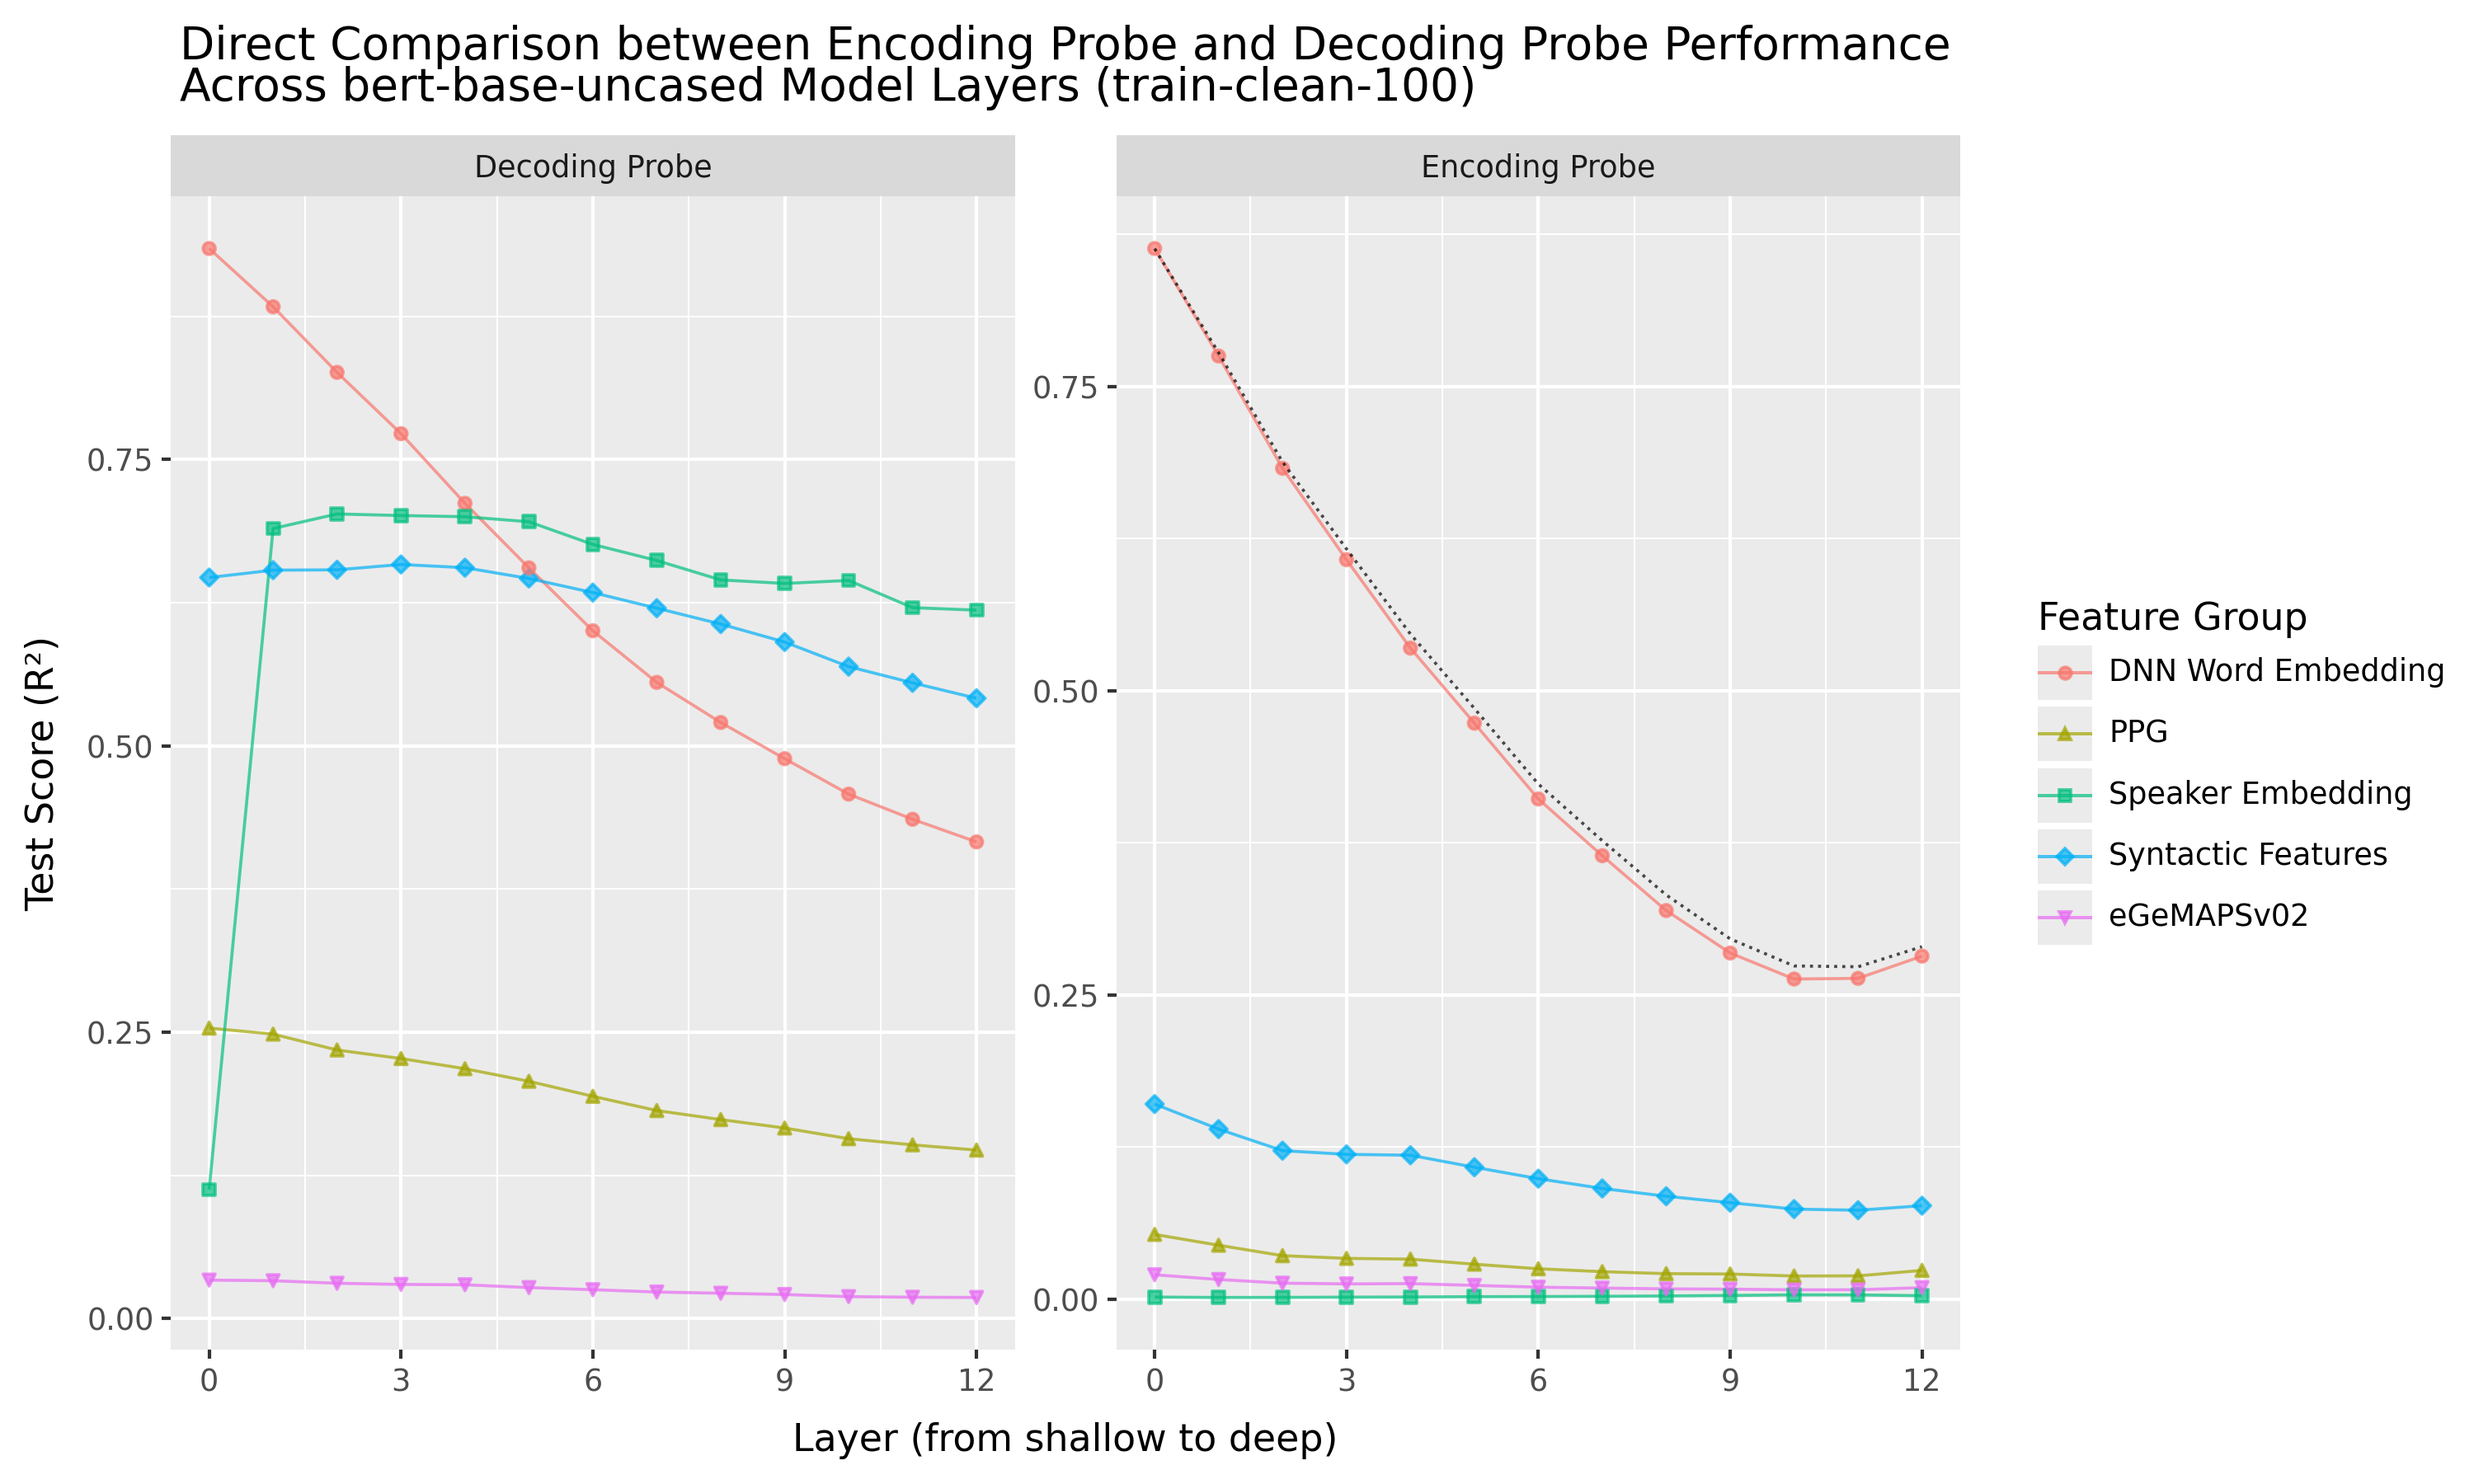
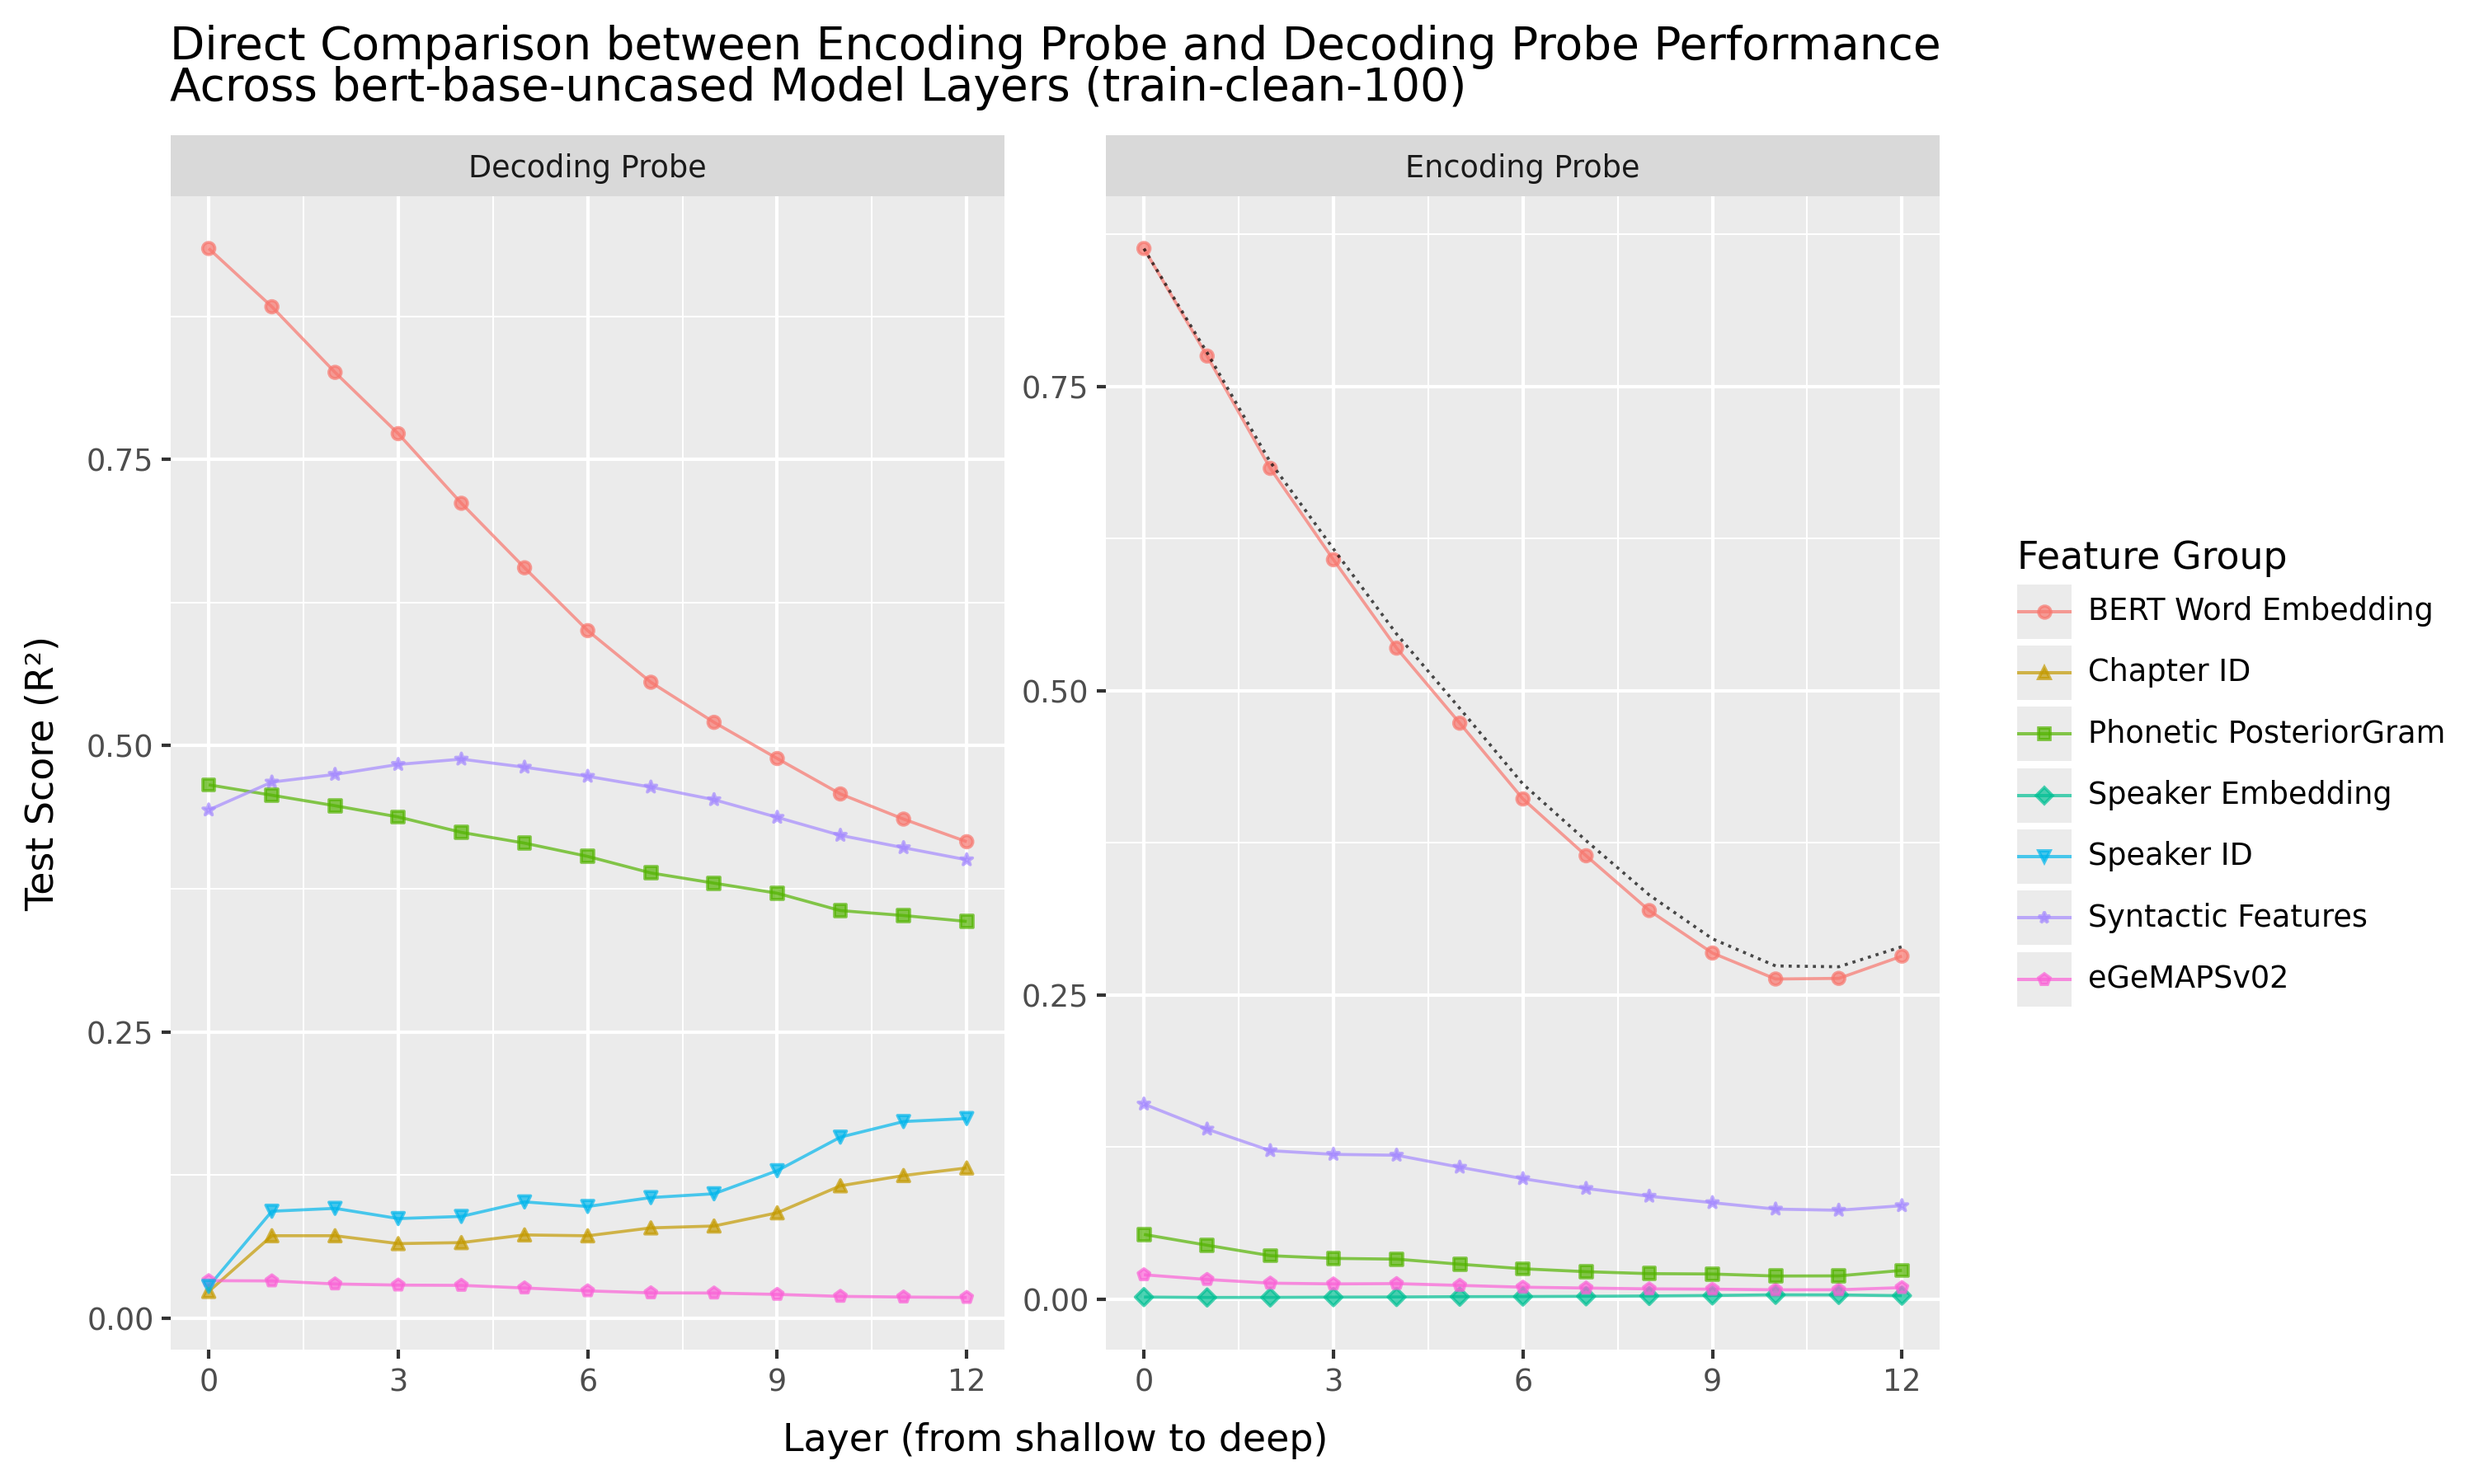
new plotting and target experiment code

diff --git a/src/target_experiment_syntax_lexical.py b/src/target_experiment_syntax_lexical.py
@@ -1,0 +1,227 @@
+# This script runs target experiments using the encoding probe paradigm
+# to investigate how well different feature groups (syntax, lexical) interact in the
+# hidden representations of a DNN model pre-trained with audio data.
+
+import argparse
+import json
+import logging
+import os
+import pickle
+import sys
+
+import numpy as np
+from sklearn.model_selection import GridSearchCV, train_test_split
+from tqdm.auto import tqdm, trange
+
+from frame_probe import parse_args, pick_probe, r2_score
+from load_probe_data import get_section_shapes, load_data
+
+# Set up logger with time, name, level, and message
+logging.basicConfig(
+    level=logging.INFO,
+    format="[%(asctime)s] - %(name)s - %(levelname)s - %(message)s",
+    datefmt="%Y-%m-%d %H:%M:%S",
+    # We want the logging info to be saved to stdout not stderr
+    handlers=[logging.StreamHandler(sys.stdout)],
+)
+
+logger = logging.getLogger(__name__)
+
+
+# Get the hostname of the machine running the code
+hostname = os.uname().nodename
+PROJECT_ROOT = os.path.dirname(os.path.dirname(os.path.realpath(__file__)))
+
+
+# Setting up environmental variables depending on the cluster this code is running on
+
+if "snellius" in hostname:
+    # If running on Snellius, use the Snellius dataset root
+    DATASET_ROOT = os.path.realpath("/projects/prjs1586/corpora/LibriSpeech")
+    ALIGNMENT_ROOT = DATASET_ROOT.replace("LibriSpeech", "librispeech_textgrids")
+    SAVEPATH = "/projects/prjs1586/experimental_data"
+    RESULTS_ROOT = "/projects/prjs1586/experimental_results"
+
+else:
+    # If running on local machine, use the local dataset root
+    DATASET_ROOT = os.path.realpath("/corpora/LibriSpeech/LibriSpeech")
+    # ALIGNMENT_ROOT = os.path.expanduser(f"~/corpora/librispeech_alignment/")
+    ALIGNMENT_ROOT = os.path.join(PROJECT_ROOT, "data")
+    SAVEPATH = os.path.join(PROJECT_ROOT, "experimental_data")
+    RESULTS_ROOT = os.path.join(PROJECT_ROOT, "results")
+
+
+def main():
+    args = parse_args()
+    librispeech_split = args.librispeech_split
+    modelname = args.modelname.split("/")[-1]
+    select_layers = args.select_layers
+    normalize_features = args.normalize_features
+    overwrite = args.overwrite
+    probe_name = args.probe_name
+    syntax_deep_dive_flag = args.syntax_deep_dive
+
+    # 1. We load the data for the experiment
+    logger.info("Loading data for target experiment...")
+    feature_sets, model_hidden_states, filename_timestamp, data_shape = load_data(
+        librispeech_split=librispeech_split,
+        modelname=modelname,
+        seq_sampling="random_frames",
+        select_layers=select_layers,
+        overwrite=overwrite,
+        reduce_dnn_word_embedding=True,
+        one_hot_encode_syntax=True,
+        one_hot_encode_metadata=True,
+        argmax_ppg=True,
+        normalize_features=normalize_features,
+    )
+
+    section_shapes = get_section_shapes(data_shape)
+    all_feature_names = section_shapes[:, -1].tolist()
+
+    # 2. We pick the probe for the experiment
+    logger.info("Picking probe for target experiment...")
+    estimator, param_grid = pick_probe(probe_name=probe_name)
+
+    # 3. We further format the feature sets for the experiment
+    logger.info("Formatting feature sets for target experiment...")
+    # We run the encoding probe with all features combined and save results with name "all_features"
+    # Then we remove syntax features and save results with name "no_syntax"
+    # Thirdly, we remove lexical features and save results with name "no_lexical"
+    # Lastly we remove both syntax and lexical features and save results with name "no_syntax_lexical"
+
+    feature_set_removal_configurations = {
+        "all_features": [],
+        "no_syntax": ["syntax_feature"],
+        "no_lexical": ["dnn_word_embedding"],
+        "no_syntax_lexical": ["syntax_feature", "dnn_word_embedding"],
+    }
+
+    results = []
+
+    for (
+        config_name,
+        feature_names_to_remove,
+    ) in feature_set_removal_configurations.items():
+        logger.info(
+            f"Running target experiment with feature set configuration: {config_name}..."
+        )
+        mask_array = np.ones(feature_sets.shape[1], dtype=bool)
+        for feature_name in feature_names_to_remove:
+            feature_idx = all_feature_names.index(feature_name)
+            start_idx, end_idx = (
+                int(section_shapes[feature_idx][0]),
+                int(section_shapes[feature_idx][1]),
+            )
+            mask_array[start_idx:end_idx] = False
+
+        # Use mask_array to select features
+        selected_feature_set = feature_sets.copy()[:, mask_array]
+
+        for layer in trange(model_hidden_states.shape[1], desc="Layers"):
+            logger.info(f"Running target experiment for layer {layer}...")
+            (
+                X_train,
+                X_test,
+                y_train,
+                y_test,
+            ) = train_test_split(
+                selected_feature_set,
+                model_hidden_states[:, layer, :],
+                test_size=0.2,
+                random_state=42,
+            )
+
+            GS = GridSearchCV(
+                estimator,
+                param_grid,
+                cv=5,
+                n_jobs=-1,
+                verbose=0,
+            )
+            GS.fit(X_train, y_train)
+            train_score = r2_score(
+                y_train,
+                GS.predict(X_train),
+                multioutput="variance_weighted",
+                train_data=y_train,
+            )
+            test_score = r2_score(
+                y_test,
+                GS.predict(X_test),
+                multioutput="variance_weighted",
+                train_data=y_train,
+            )
+
+            result = {
+                "librispeech_split": librispeech_split,
+                "modelname": modelname,
+                "layer": layer,
+                "config_name": config_name,
+                "train_score": train_score,
+                "test_score": test_score,
+                "best_params": GS.best_params_,
+            }
+            results.append(result)
+
+    # 4. Plot and save the results
+    plotting_results(results, modelname, librispeech_split)
+
+
+def plotting_results(results, modelname, librispeech_split):
+    # Plot the results
+    import pandas as pd
+    import plotnine as p9
+
+    results_df = pd.DataFrame(results)
+
+    # Rename config_name for better plotting labels
+    rename_config_name = {
+        "all_features": "All Features",
+        "no_syntax": "No Syntax Features",
+        "no_lexical": "No Lexical Features",
+        "no_syntax_lexical": "No Syntax & Lexical Features",
+    }
+    results_df["config_name"] = results_df["config_name"].replace(rename_config_name)
+
+    plot = (
+        p9.ggplot(
+            results_df,
+            p9.aes(
+                x="layer",
+                y="test_score",
+                color="config_name",
+            ),
+        )
+        + p9.geom_line()
+        + p9.geom_point()
+        + p9.labs(
+            title=f"Target Experiment Syntax and Lexical Features Interaction\nModel: {modelname}, Split: {librispeech_split}",
+            x="Layer",
+            y="Test R² Score",
+            color="Feature Set Configuration",
+        )
+    )
+    plot.show()
+
+    logger.info("Saving results for target experiment...")
+    results_savepath = os.path.join(
+        RESULTS_ROOT,
+        "target_experiment_syntax_lexical",
+        f"{librispeech_split}_{modelname}_results.pkl",
+    )
+    os.makedirs(os.path.dirname(results_savepath), exist_ok=True)
+    with open(results_savepath, "wb") as f:
+        pickle.dump(results, f)
+    logger.info(f"Results saved to {results_savepath}")
+
+    plot.save(
+        filename=results_savepath.replace(".pkl", ".png"),
+        dpi=300,
+        width=10,
+        height=6,
+    )
+
+
+if __name__ == "__main__":
+    main()

diff --git a/src/plotting_results.py b/src/plotting_results.py
@@ -618,24 +618,13 @@ def plot_encode_decode_comparison(
         results_dir=RESULTS_ROOT,
         results_file_pattern=f"librispeech-{librispeech_split}/{modelname}/ridge_frame_probe_normalized/bottom-up-layer_*.csv",
     )
-    rename_feature_group = {
-        "SpectralInfo": "Spectral Features",
-        "Formant Characteristics": "Formants",
-        "syntax_feature": "Syntactic Features",
-        "ppg_feature": "PPG",
-        "spk_embedding": "Speaker Embedding",
-        "metadata": "Metadata",
-        "dnn_word_embedding": "DNN Word Embedding",
-        "OtherAcoustic": "Other Acoustic Features",
-        "Formants": "Formants",
-        "eGeMAPSv02": "eGeMAPSv02",
-    }
+
     decoding_probe_results = pd.read_csv(
         f"/home/gshen/work_dir/unprobe/results/decoding_frame_probe_results_{modelname}_{librispeech_split}.csv"
     )
-    # rename r2_score to test_score
+    # rename score to test_score
     decoding_probe_results = decoding_probe_results.rename(
-        columns={"r2_score": "test_score"}
+        columns={"score": "test_score"}
     )
     decoding_probe_results["Probing_Direction"] = "Decoding Probe"
 
@@ -648,9 +637,7 @@ def plot_encode_decode_comparison(
         (bottom_up_results_df["feature_group"] != "all")
         & (bottom_up_results_df["feature_group"] != "random_baseline")
     ]
-    bottom_up_results_df["feature_group"] = bottom_up_results_df["feature_group"].map(
-        lambda x: rename_feature_group.get(x, x)
-    )
+
     # Join the decoding probe results with bottom-up results
     comparison_results_df = pd.concat(
         [bottom_up_results_df, decoding_probe_results]
@@ -664,6 +651,25 @@ def plot_encode_decode_comparison(
     # Drop columns with any NaN values
     comparison_results_df = comparison_results_df.dropna(axis=1, how="any")
 
+    rename_feature_group = {
+        "SpectralInfo": "Spectral Features",
+        "Formant Characteristics": "Formants",
+        "syntax_feature": "Syntactic Features",
+        "ppg_feature": "Phonetic PosteriorGram",
+        "spk_embedding": "Speaker Embedding",
+        "metadata": "Metadata",
+        "dnn_word_embedding": "BERT Word Embedding",
+        "OtherAcoustic": "Other Acoustic Features",
+        "Formants": "Formants",
+        "eGeMAPSv02": "eGeMAPSv02",
+        "SpeakerID-OH": "Speaker ID",
+        "DNN Word Embedding": "BERT Word Embedding",
+        "ChapterID-OH": "Chapter ID",
+        "Book ID": "Chapter ID",
+    }
+    comparison_results_df["feature_group"] = comparison_results_df["feature_group"].map(
+        lambda x: rename_feature_group.get(x, x)
+    )
     # Plot the bottom-up results with a facet_wrap on Probing Direction
     plot = (
         p9.ggplot(comparison_results_df)
